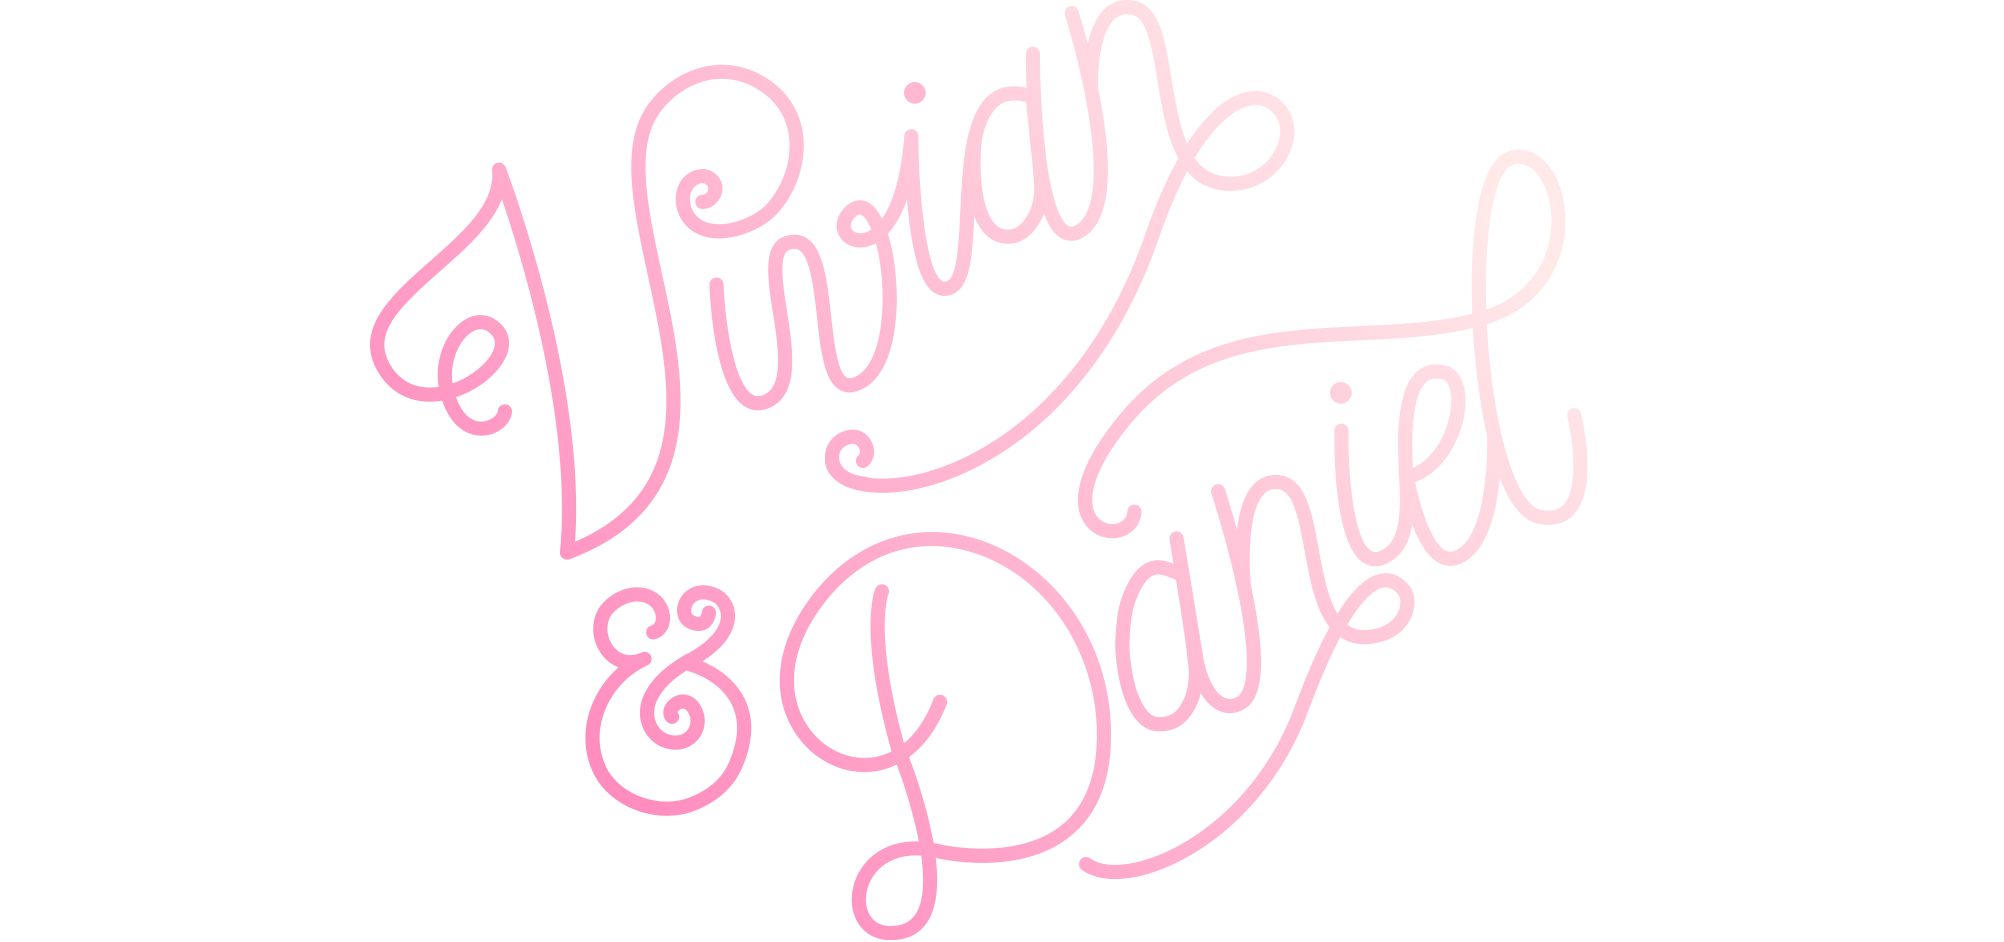
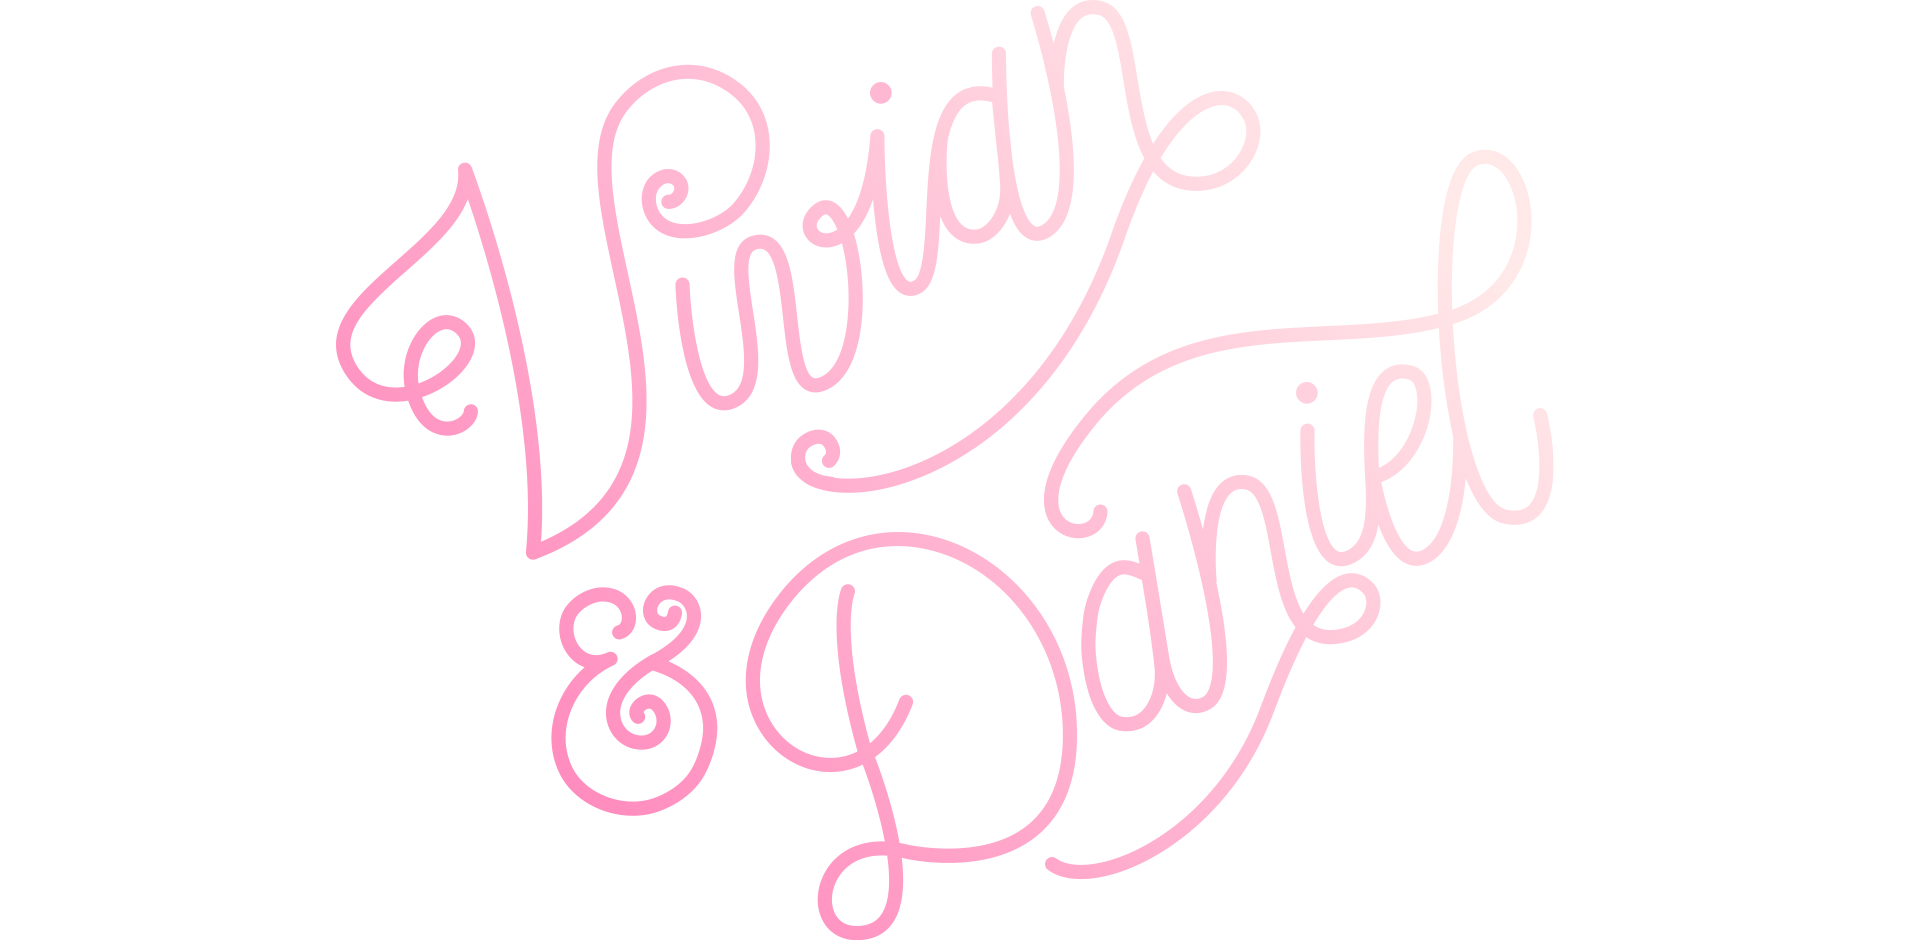
new checkboxes

diff --git a/index.html b/index.html
@@ -9,7 +9,7 @@
         <!-- TODO <link rel="icon" type="image/png" href="./favicon32.png">  -->
         <script src="https://use.typekit.net/yzc3smy.js"></script>
         <script>try{Typekit.load({ async: true });}catch(e){}</script>
-        <!-- TODO Jquery? Google Analytics? -->
+        <!-- TODO Google Analytics -->
     </head>
     <body>
         <header>
@@ -26,7 +26,7 @@
                     <li><a href="#">Registry</a></li>
                 </ol>
             </nav>
-            <img src="header.png" width=60%>
+            <img id="header-img" src="header.png" width=1036px>
         </header>
         <section class="width-55 margin-bottom-20">
             <h2 class="margin-bottom-5">Our Story</h2>

diff --git a/styles.css b/styles.css
@@ -71,10 +71,11 @@ p {
     line-height: 40px;
 }
 
-img {
-    margin: auto;
-    margin-top: 180px;
-    margin-bottom: 100px;
+#header-img {
+    margin-left: auto;
+    margin-right: auto;
+    margin-top: 170px;
+    margin-bottom: 180px;
 }
 
 section {
